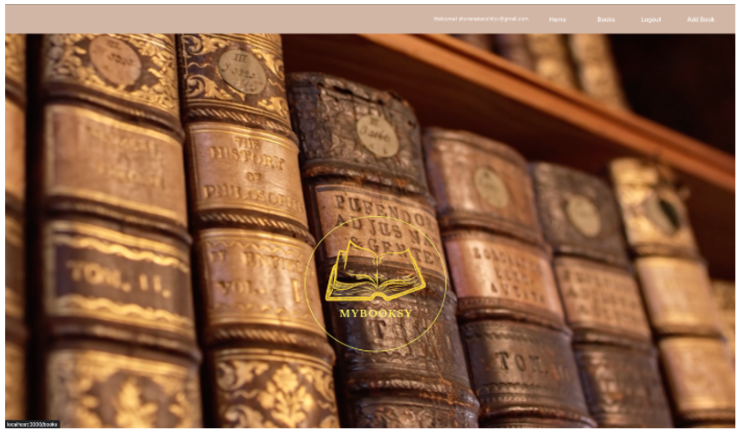
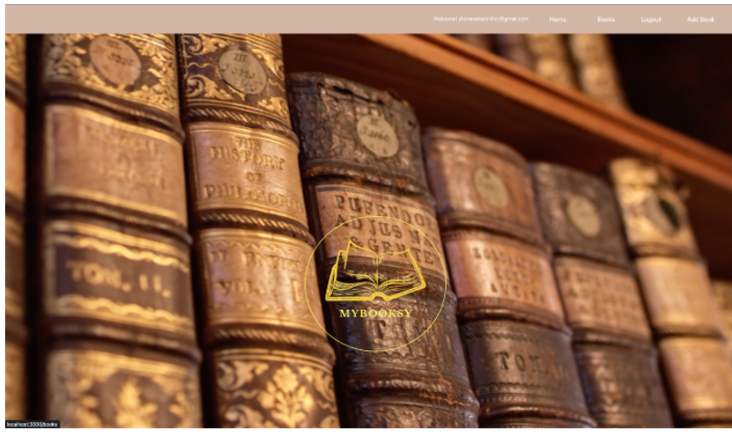
iamges changed

diff --git a/index.html b/index.html
@@ -135,7 +135,7 @@
   <!-- portfolio itme 02 -->
 
 <div> 
-  <img src="img/kibigood.png" alt="book image" class="portfolio__img"> 
+  <img src="img/mybooksygood.png" alt="book image" class="portfolio__img"> 
   <button class="project__btn" target=”_blank”>  
   <a style="text-decoration: none;" class="git" href="https://github.com/ShorenaK/mybooksy-frontend" target=”_blank”>GITHUB</a>
    </button>
@@ -152,7 +152,7 @@
 
 
 <div> 
-  <img src="img/kibigood.png" alt="book image" class="portfolio__img" > 
+  <img src="img/Profoliogood.png" alt="book image" class="portfolio__img" > 
 
   <button class="project__btn" target=”_blank”> 
   <a style="text-decoration: none;" class="git " href="https://github.com/ShorenaK/Profolios" target=”_blank”>GITHUB</a>
